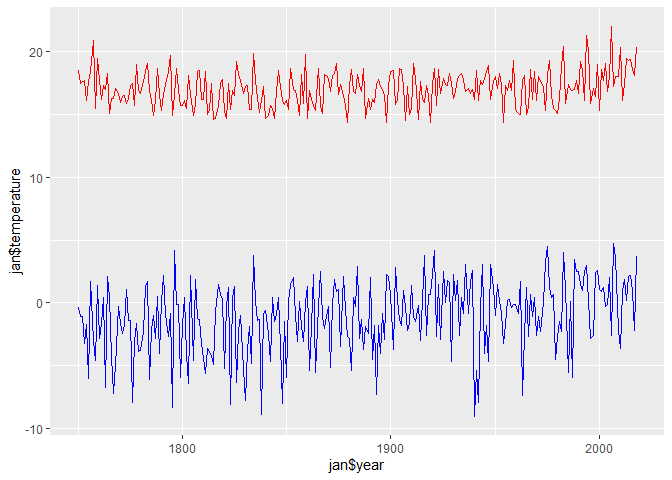
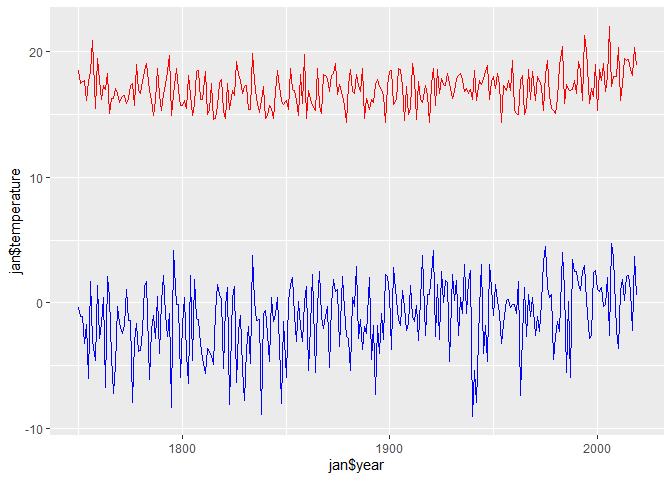
Extended time range

diff --git a/README.md b/README.md
@@ -24,6 +24,24 @@ python ./source/yearly_monthly.py
 ```
 
 
+
+```r
+t1 <- read.csv("https://raw.githubusercontent.com/climdata/baur/master/raw/baur_monthly.csv", sep=",")
+t1new <- t1[, c("year","month","ts","time","temperature")]
+t2 <- read.csv("https://raw.githubusercontent.com/climdata/dwdTemperature/master/csv/monthly_temperature_de.csv", sep=",", na = "NA")
+t2new <- subset(t2, t2$ts>max(t1$ts))
+t2new <- t2new[, c("year","month","ts","time","Deutschland")]
+names(t2new)[names(t2new) == 'Deutschland'] <- 'temperature'
+t1new <- rbind(t1new, t2new)
+t1new <- t1new[order(t1new$ts),]
+
+write.table(t1new, file = "csv/baur_monthly.csv", append = FALSE, quote = TRUE, sep = ",",
+            eol = "\n", na = "NA", dec = ".", row.names = FALSE,
+            col.names = TRUE, qmethod = "escape", fileEncoding = "UTF-8")
+```
+
+
+
 ```r
 #install.packages("ggplot2")
 require("ggplot2")
